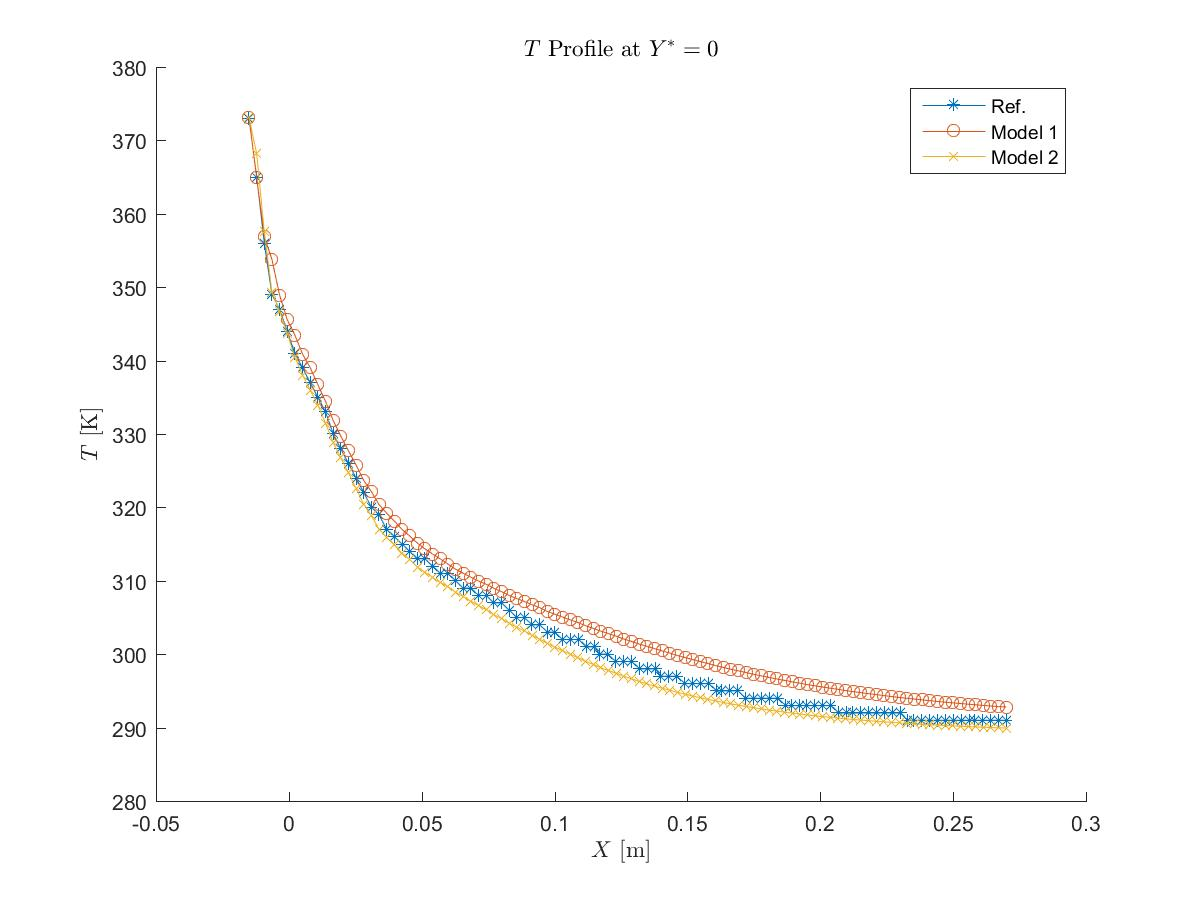
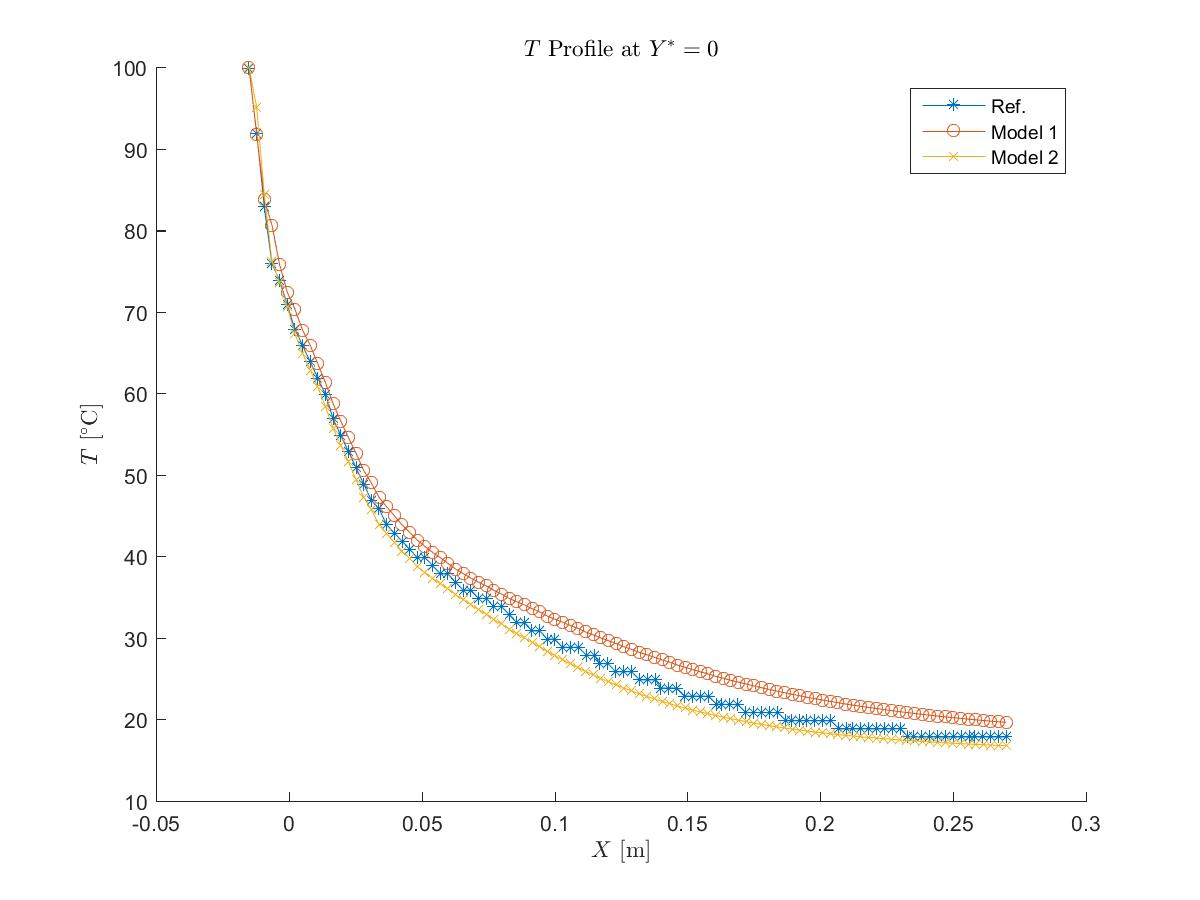
Update  Temp plot

diff --git a/Project/MATLAB/data.m b/Project/MATLAB/data.m
@@ -204,12 +204,12 @@ sim.model2.V = sim.model2.y0x.data(:,6);
 
 figure(1)
 hold on 
-plot(sim.ref.x, sim.ref.T, '*-')
-plot(sim.model1.x, sim.model1.T, 'o-')
-plot(sim.model2.x, sim.model2.T, 'x-')
+plot(sim.ref.x, sim.ref.T-273.15, '*-')
+plot(sim.model1.x, sim.model1.T-273.15, 'o-')
+plot(sim.model2.x, sim.model2.T-273.15, 'x-')
 title('$T$ Profile at $Y^*=0$','Interpreter','latex');
 xlabel('$X$ [m]','Interpreter','latex');
-ylabel('$T$ [K]','Interpreter','latex');
+ylabel('$T$ [$^{\circ}$C]','Interpreter','latex');
 legend('Ref.', 'Model 1', 'Model 2')
 plotstr=strcat('Plots\sim2_comp_T');   
 plotstr=char(plotstr);
